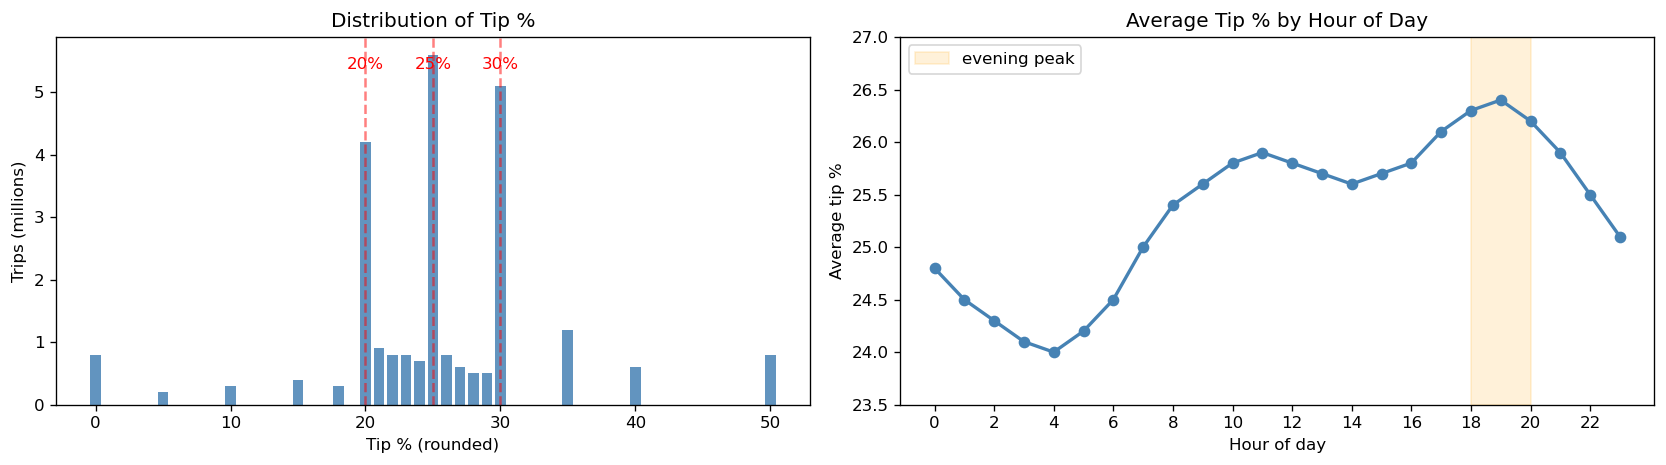
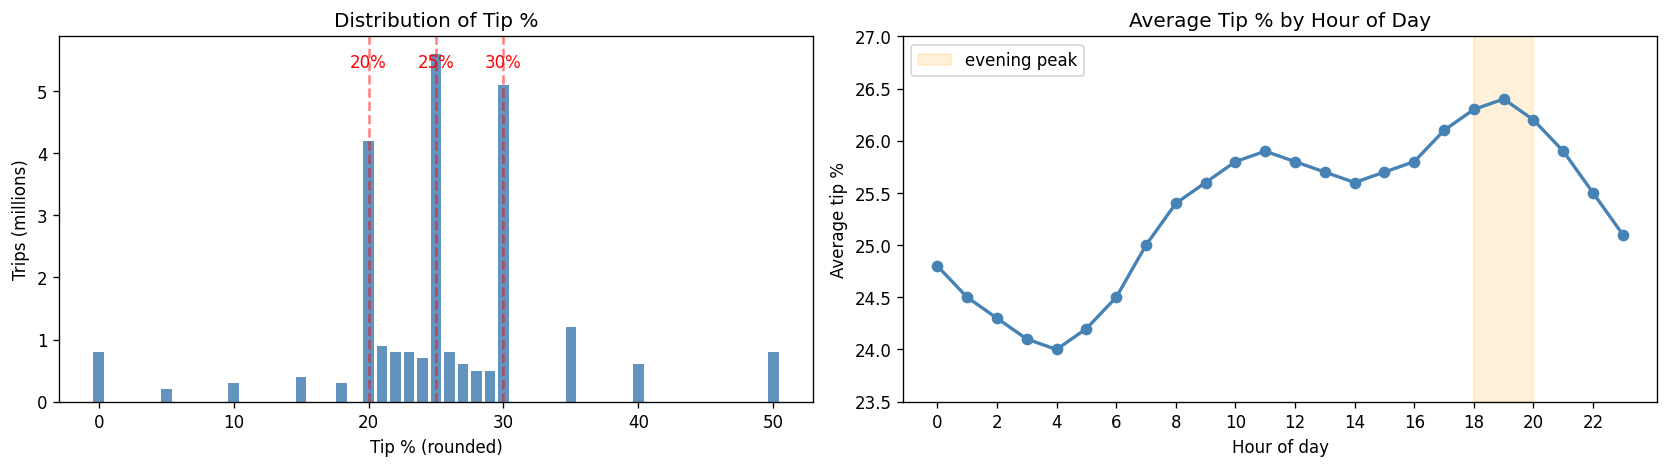
fixing  notebook

diff --git a/index.html b/index.html
@@ -48,7 +48,7 @@
   <a href="#night">Night Effect</a>
   <a href="#caveats">Limitations</a>
   <a href="#conclusion">Conclusion</a>
-  <a href="explainer_notebook.ipynb" target="_blank" style="margin-left:auto; opacity:0.75;">📓 Explainer Notebook</a>
+  <a href="https://nbviewer.org/github/marijn-118/marijn-118.github.io/blob/main/explainer_notebook.ipynb" target="_blank" style="margin-left:auto; opacity:0.75;">📓 Explainer Notebook</a>
 </nav>
 
 <!-- ══ SECTION 1 · INTRODUCTION ══════════════════════════════════════ -->
@@ -629,7 +629,7 @@
     All correlations are associative. No causal claims are made.
   </p>
   <p style="margin-top:0.8rem;">
-    <a href="explainer_notebook.ipynb" target="_blank" style="color:#aaa;">📓 Explainer Notebook</a>
+    <a href="https://nbviewer.org/github/marijn-118/marijn-118.github.io/blob/main/explainer_notebook.ipynb" target="_blank" style="color:#aaa;">📓 Explainer Notebook</a>
   </p>
 </footer>
 
